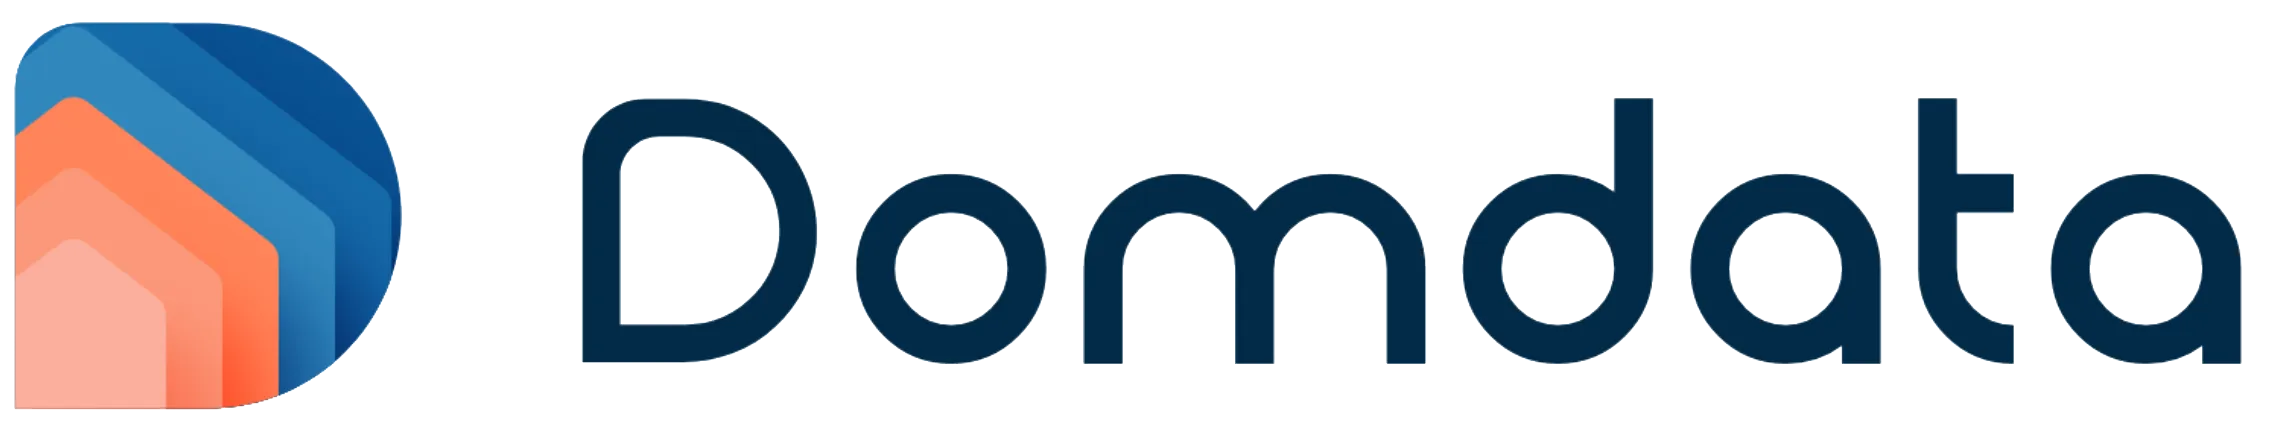
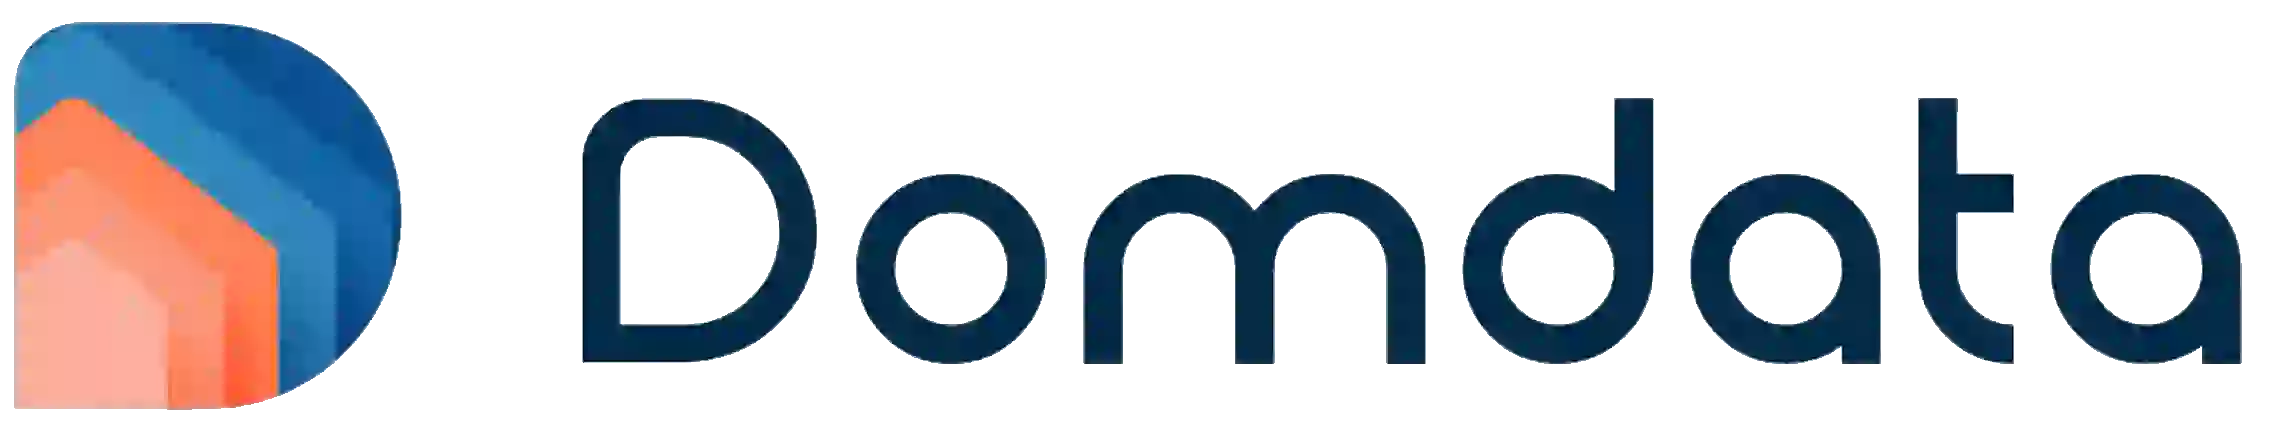
perf: :zap: Improve images size

diff --git a/docusaurus.config.ts b/docusaurus.config.ts
@@ -52,12 +52,12 @@ const config: Config = {
 
 	themeConfig: {
 		// Replace with your project's social card
-		image: 'img/IMG_5530.JPG',
+		image: 'img/profile.webp',
 		navbar: {
 			title: 'William Donnette',
 			logo: {
 				alt: 'William Donnette',
-				src: 'img/logo.png',
+				src: 'img/logo.webp',
 				className: 'rounded-lg',
 			},
 			items: [

diff --git a/src/components/experience/experiences.mock.ts b/src/components/experience/experiences.mock.ts
@@ -3,12 +3,12 @@ import {Experience} from './type';
 const experiences: Array<Experience> = [
 	{
 		name: 'abes',
-		image: '/img/abes.png',
+		image: '/img/abes.webp',
 		className: 'h-40 mx-5',
 	},
 	{
 		name: 'sncf',
-		image: '/img/sncf.png',
+		image: '/img/sncf.webp',
 		className: 'h-20 mx-5',
 	},
 	{

diff --git a/docs/02-academic/02-licence-apidae/projects.md b/docs/02-academic/02-licence-apidae/projects.md
@@ -21,7 +21,7 @@ L'objectif était de mettre en pratique nos compétences en **JavaScript/TypeScr
 
 Rendu de la page de connexion du front-end :
 
-![Rendu de la page de connexion du front-end](/img/tp-node-recette.png)
+![Rendu de la page de connexion du front-end](/img/tp-node-recette.webp)
 
 ### API REST en Node.js
 
